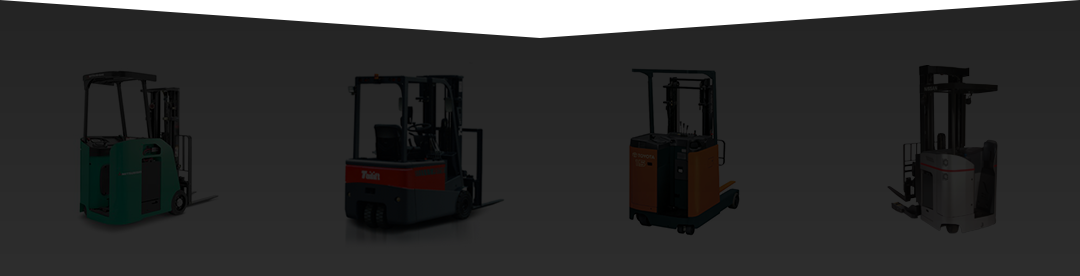
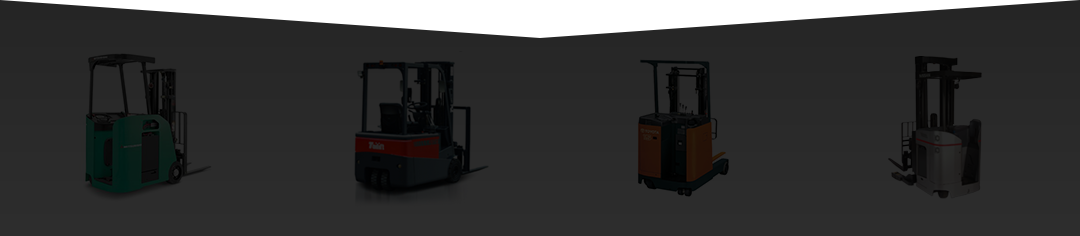
Add files via upload

diff --git a/Tailift Demo/css/base.css b/Tailift Demo/css/base.css
@@ -79,7 +79,7 @@ a:hover{
 }
 .main-menu ul li a:hover,
 .main-menu ul li a.active{
-    font-size: 19px
+    color: #ff0100;
 }
 .main-menu ul li a.active{
 	font-weight: bold;
@@ -208,7 +208,7 @@ a:hover{
 }
 .index-products ul li a{
 	width: 270px;
-	height: 276px;
+	height: 236px;
 	display: block;
 	text-align: center;
 	-webkit-transition: all 0.3s ease-out;
@@ -217,18 +217,6 @@ a:hover{
     -ms-transition: all 0.3s ease-out;
     transition: all 0.3s ease-out;   
 }
-.index-products ul li.ab-bg a:hover{
-	background: url(../img/i-ab-bg.png) top center no-repeat;
-}
-.index-products ul li.tai-bg a:hover{
-	background: url(../img/i-tai-bg.png) top center no-repeat;
-}
-.index-products ul li.pdt-bg a:hover{
-	background: url(../img/i-pdt-bg.png) top center no-repeat;
-}
-.index-products ul li.contact-bg a:hover{
-	background: url(../img/i-con-bg.png) top center no-repeat;
-}
 .index-products ul li a .title{
 	text-align: center;
 	width: 270px;
@@ -236,8 +224,8 @@ a:hover{
 	border-right: 2px solid #fff;
 	display: inline-block;
 	height: 48px;
-	margin: 116px 0;
-	font-size: 19px;
+	margin: 94px 0;
+	font-size: 16px;
 	letter-spacing: 3px;
 	-webkit-transition: all 0.3s ease-out;
     -moz-transition: all 0.3s ease-out;
@@ -246,7 +234,7 @@ a:hover{
     transition: all 0.3s ease-out; 
 }
 .index-products ul li a:hover .title{
-	margin: 112px 0 120px;
+	font-size: 18px;
 	-webkit-transition: all 0.3s ease-out;
     -moz-transition: all 0.3s ease-out;
     -o-transition: all 0.3s ease-out;
@@ -257,9 +245,9 @@ a:hover{
 	border-right: none;
 }
 .index-products ul li a .title-e{
-	margin-top: 8px;
+	margin-top: 5px;
 	display: block;
-	font-size: 15px;
+	font-size: 13px;
 	letter-spacing: 2px;
 }
 /*-----Tailift-----*/

diff --git a/Tailift Demo/products.html b/Tailift Demo/products.html
@@ -37,7 +37,7 @@
 	</header>
 	<main class="main">
 	    <div class="page-banner">
-	        <img src="img/page-banner.png">
+	        <img src="img/page-banner2.png">
 	    </div>
 	    <div class="section-content top" style="position: relative; padding-bottom: 50px; background: url(img/pdt-bg-1.jpg) no-repeat 310px 235px;">
             <div class="page-title">

diff --git a/Tailift Demo/index.html b/Tailift Demo/index.html
@@ -102,12 +102,6 @@
 	    		</li>
 	    	</ul>
 	    </div>
-	    <a href="index.html" class="gohome show">
-	    	<i class="fa fa-home"></i>
-	    </a>
-	    <a href="javascript:void(0)" class="gotop" id="gotop">
-	    	<i class="fa fa-chevron-up"></i>
-	    </a>
 	</main>
 	<footer class="footer">
 	    <p class="footer-info">

diff --git a/Tailift Demo/tailift.html b/Tailift Demo/tailift.html
@@ -42,7 +42,7 @@
 	</header>
 	<main class="main">
 	    <div class="page-banner">
-	        <img src="img/page-banner2.png">
+	        <img src="img/page-banner.png">
 	    </div>
 	    <div class="section-content top" style="padding-bottom: 15px">
             <div class="page-title">
